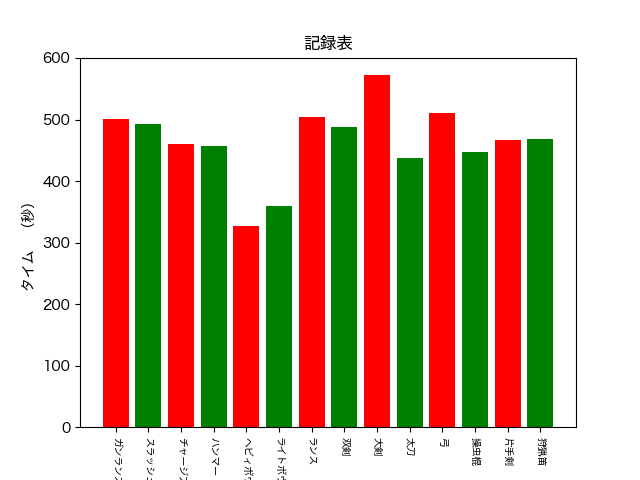
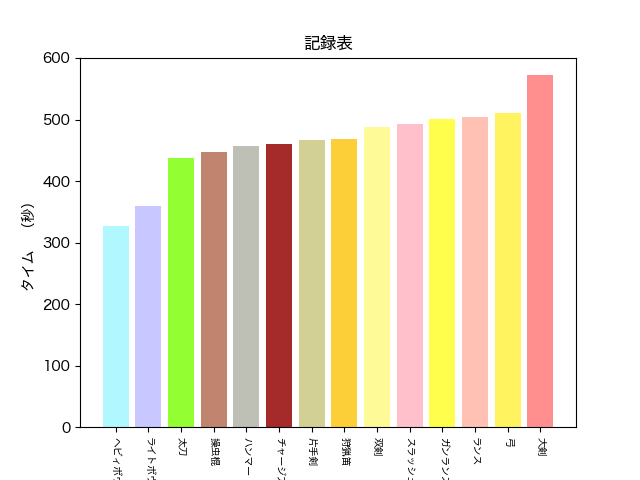
enabled japanse visualization once again

diff --git a/main.py b/main.py
@@ -1,14 +1,17 @@
+import matplotlib
 import matplotlib.pyplot as plt
+import japanize_matplotlib
 from flask import Flask, session, redirect, render_template, request
 import mysql.connector
 from datetime import date
-import matplotlib
 from dotenv import load_dotenv, find_dotenv
 import os
 matplotlib.use('Agg')
 app = Flask(__name__)
 app.secret_key = b'xx'
 UPLOAD_FOLDER = "/Users/Lan/Desktop/MHRiseUtility/static/"
+# heroku git https://git.heroku.com/mhriserecords.git
+# webpage https://mhriserecords.herokuapp.com
 # save path
 app.config['UPLOAD_FOLDER'] = UPLOAD_FOLDER
 load_dotenv(find_dotenv())
@@ -35,6 +38,11 @@ conn = mysql.connector.connect(
     database=os.getenv("DATABASED"),
     auth_plugin='mysql_native_password'
 )
+# conn = mysql.connector.connect(
+#   user = "b5b250ea42fdaf",
+## host = "us-cdbr-east.cleardb.com",
+#database = "heroku_db"
+# )
 
 
 @app.route('/')
@@ -464,3 +472,4 @@ def changeLanguage():
 #app.run(host='0.0.0.0', port=8080)
 if __name__ == '__main__':
     app.run()
+
